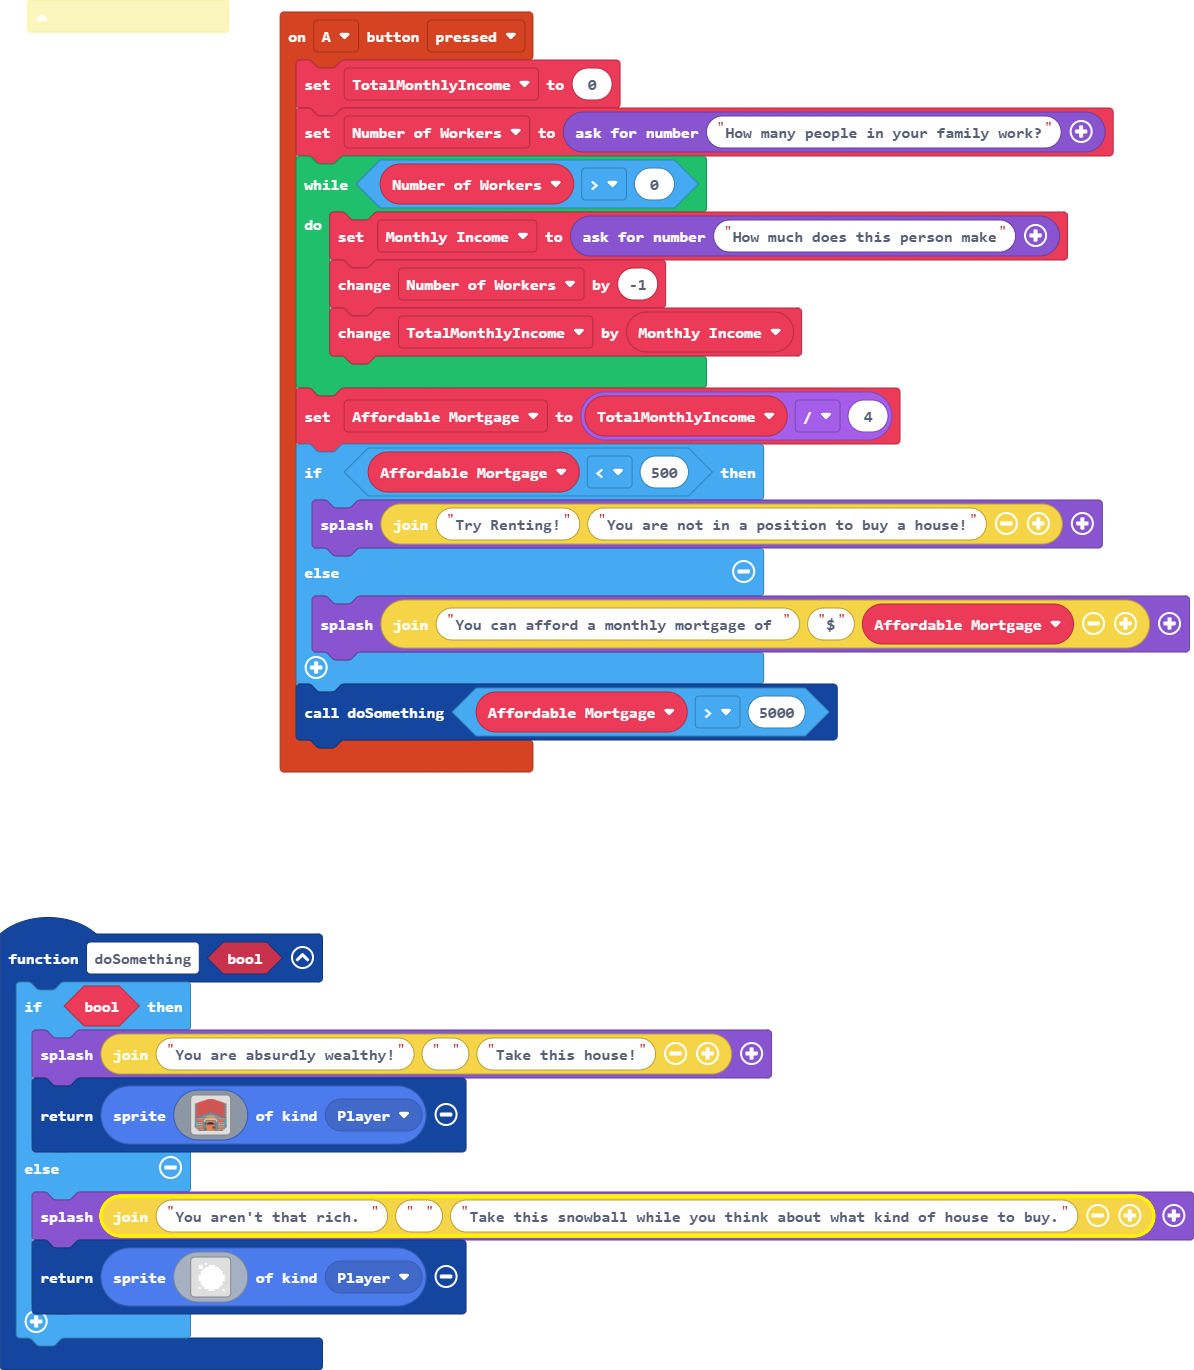
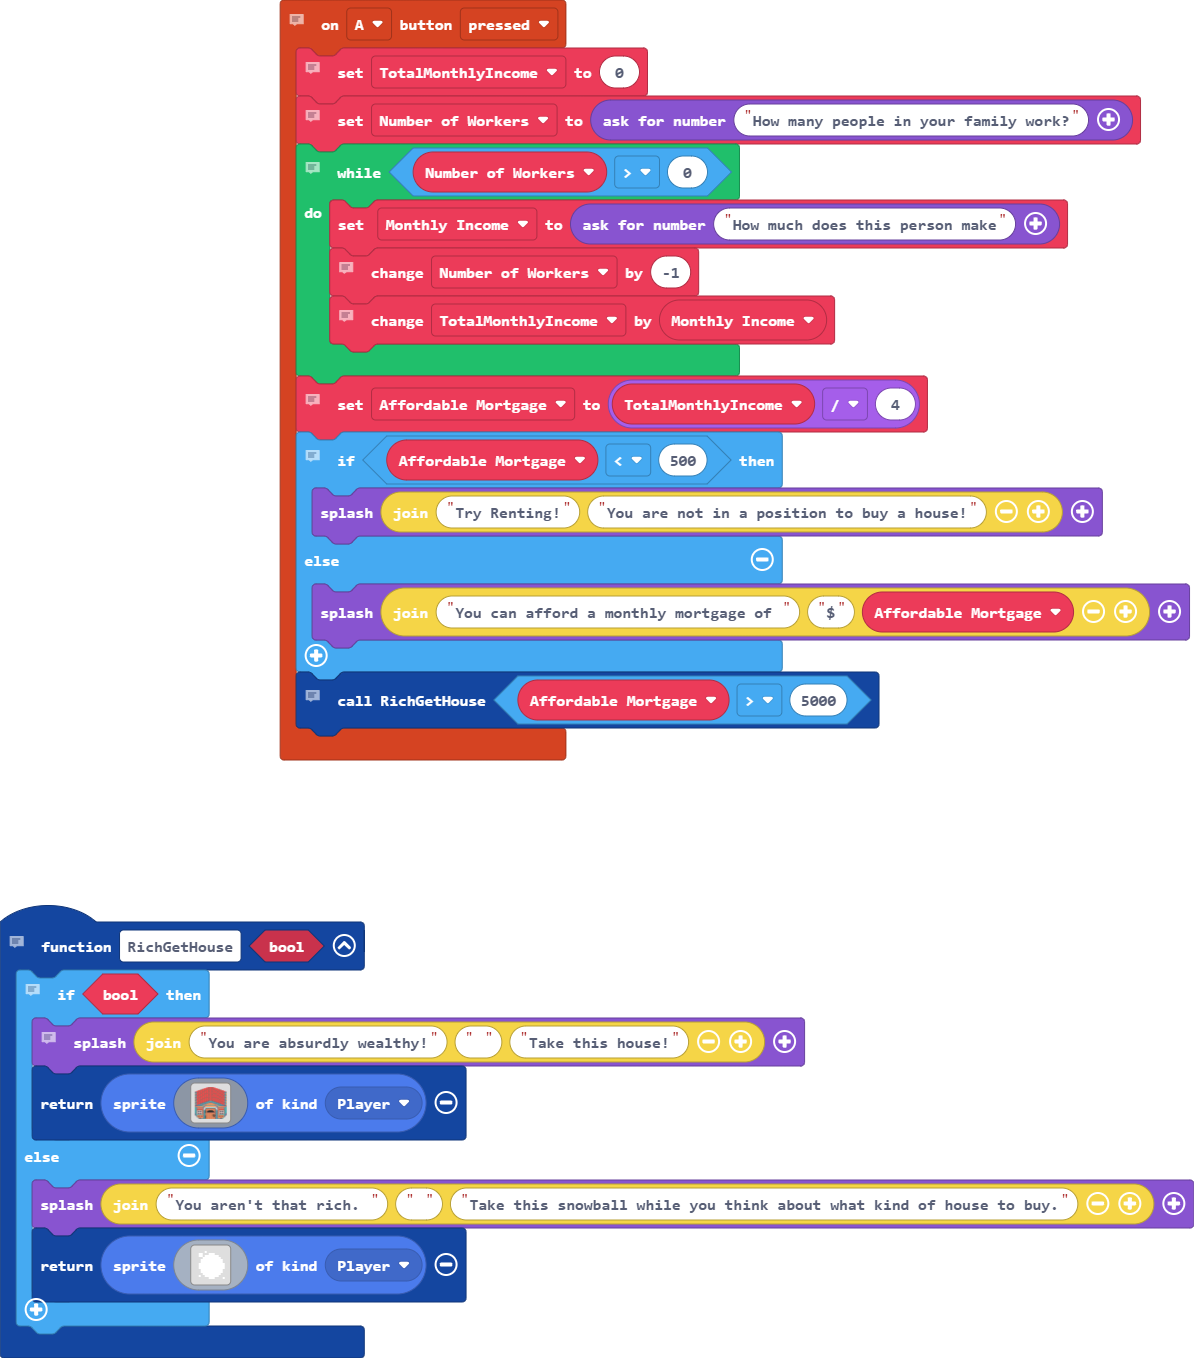
Update main.blocks, main.ts

diff --git a/main.ts b/main.ts
@@ -2,26 +2,11 @@ let TotalMonthlyIncome = 0
 let Number_of_Workers = 0
 let Monthly_Income = 0
 let Affordable_Mortgage = 0
-/**
- */
-controller.A.onEvent(ControllerButtonEvent.Pressed, function () {
-    TotalMonthlyIncome = 0
-    Number_of_Workers = game.askForNumber("How many people in your family work?")
-    while (Number_of_Workers > 0) {
-        Monthly_Income = game.askForNumber("How much does this person make")
-        Number_of_Workers += -1
-        TotalMonthlyIncome += Monthly_Income
-    }
-    Affordable_Mortgage = TotalMonthlyIncome / 4
-    if (Affordable_Mortgage < 500) {
-        game.splash("Try Renting!" + "You are not in a position to buy a house!")
-    } else {
-        game.splash("You can afford a monthly mortgage of " + "$" + Affordable_Mortgage)
-    }
-    doSomething(Affordable_Mortgage > 5000)
-})
-function doSomething (bool: boolean) {
+// function with parameter
+function RichGetHouse (bool: boolean) {
+    // conditional that relies on a boolean
     if (bool) {
+        // splashes text and returns an image
         game.splash("You are absurdly wealthy!" + " " + "Take this house!")
         return sprites.create(img`
             ....................e2e22e2e....................
@@ -95,3 +80,28 @@ function doSomething (bool: boolean) {
             `, SpriteKind.Player)
     }
 }
+// When the A button is pressed the main code runs.
+controller.A.onEvent(ControllerButtonEvent.Pressed, function () {
+    // Sets a variable to 0
+    TotalMonthlyIncome = 0
+    // Asks for an integer for the variable.
+    Number_of_Workers = game.askForNumber("How many people in your family work?")
+    // Runs a loop while a variable is more than 0
+    while (Number_of_Workers > 0) {
+        Monthly_Income = game.askForNumber("How much does this person make")
+        // Subtracts 1 from the variable that controls the loop
+        Number_of_Workers += -1
+        // Adds an integer that was input to a variable
+        TotalMonthlyIncome += Monthly_Income
+    }
+    // Sets a variable to another variable divided by 4
+    Affordable_Mortgage = TotalMonthlyIncome / 4
+    // Conditional that splashes text through both paths.
+    if (Affordable_Mortgage < 500) {
+        game.splash("Try Renting!" + "You are not in a position to buy a house!")
+    } else {
+        game.splash("You can afford a monthly mortgage of " + "$" + Affordable_Mortgage)
+    }
+    // calls the fucntion
+    RichGetHouse(Affordable_Mortgage > 5000)
+})
